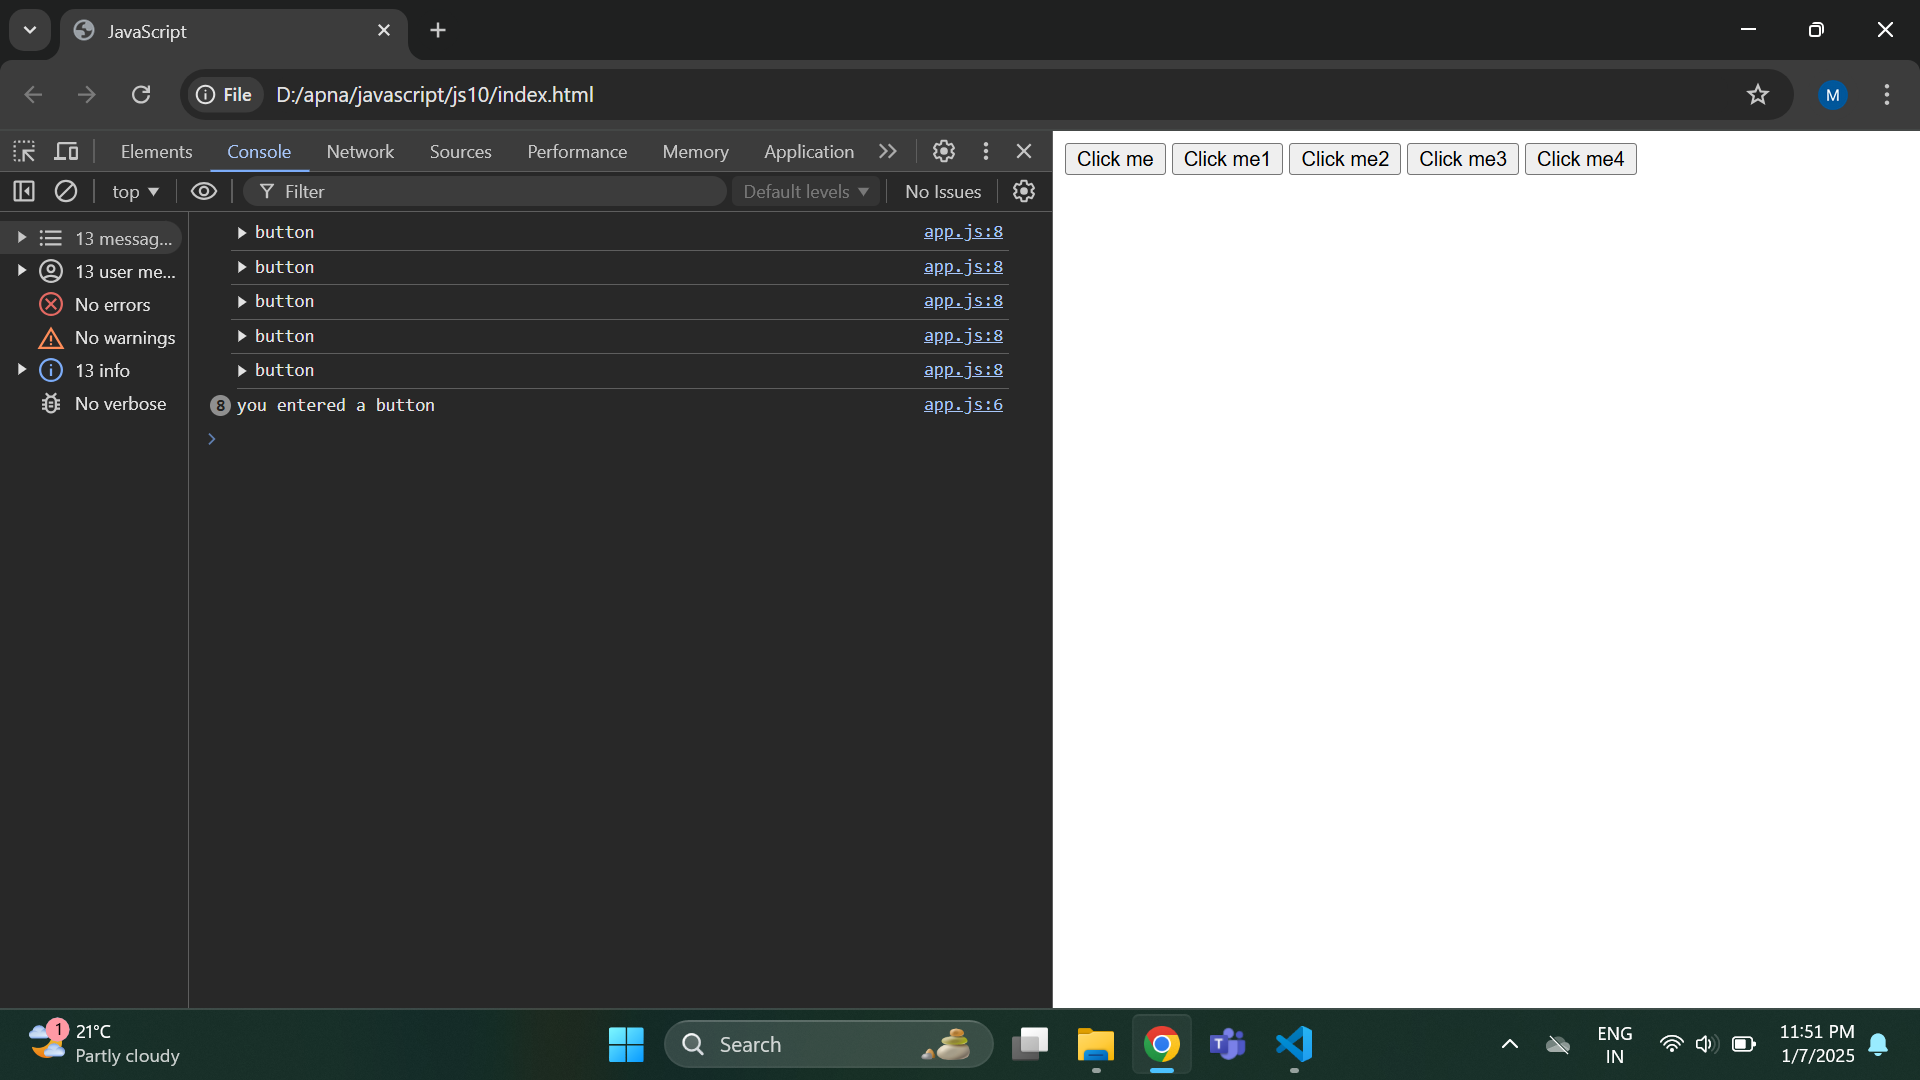
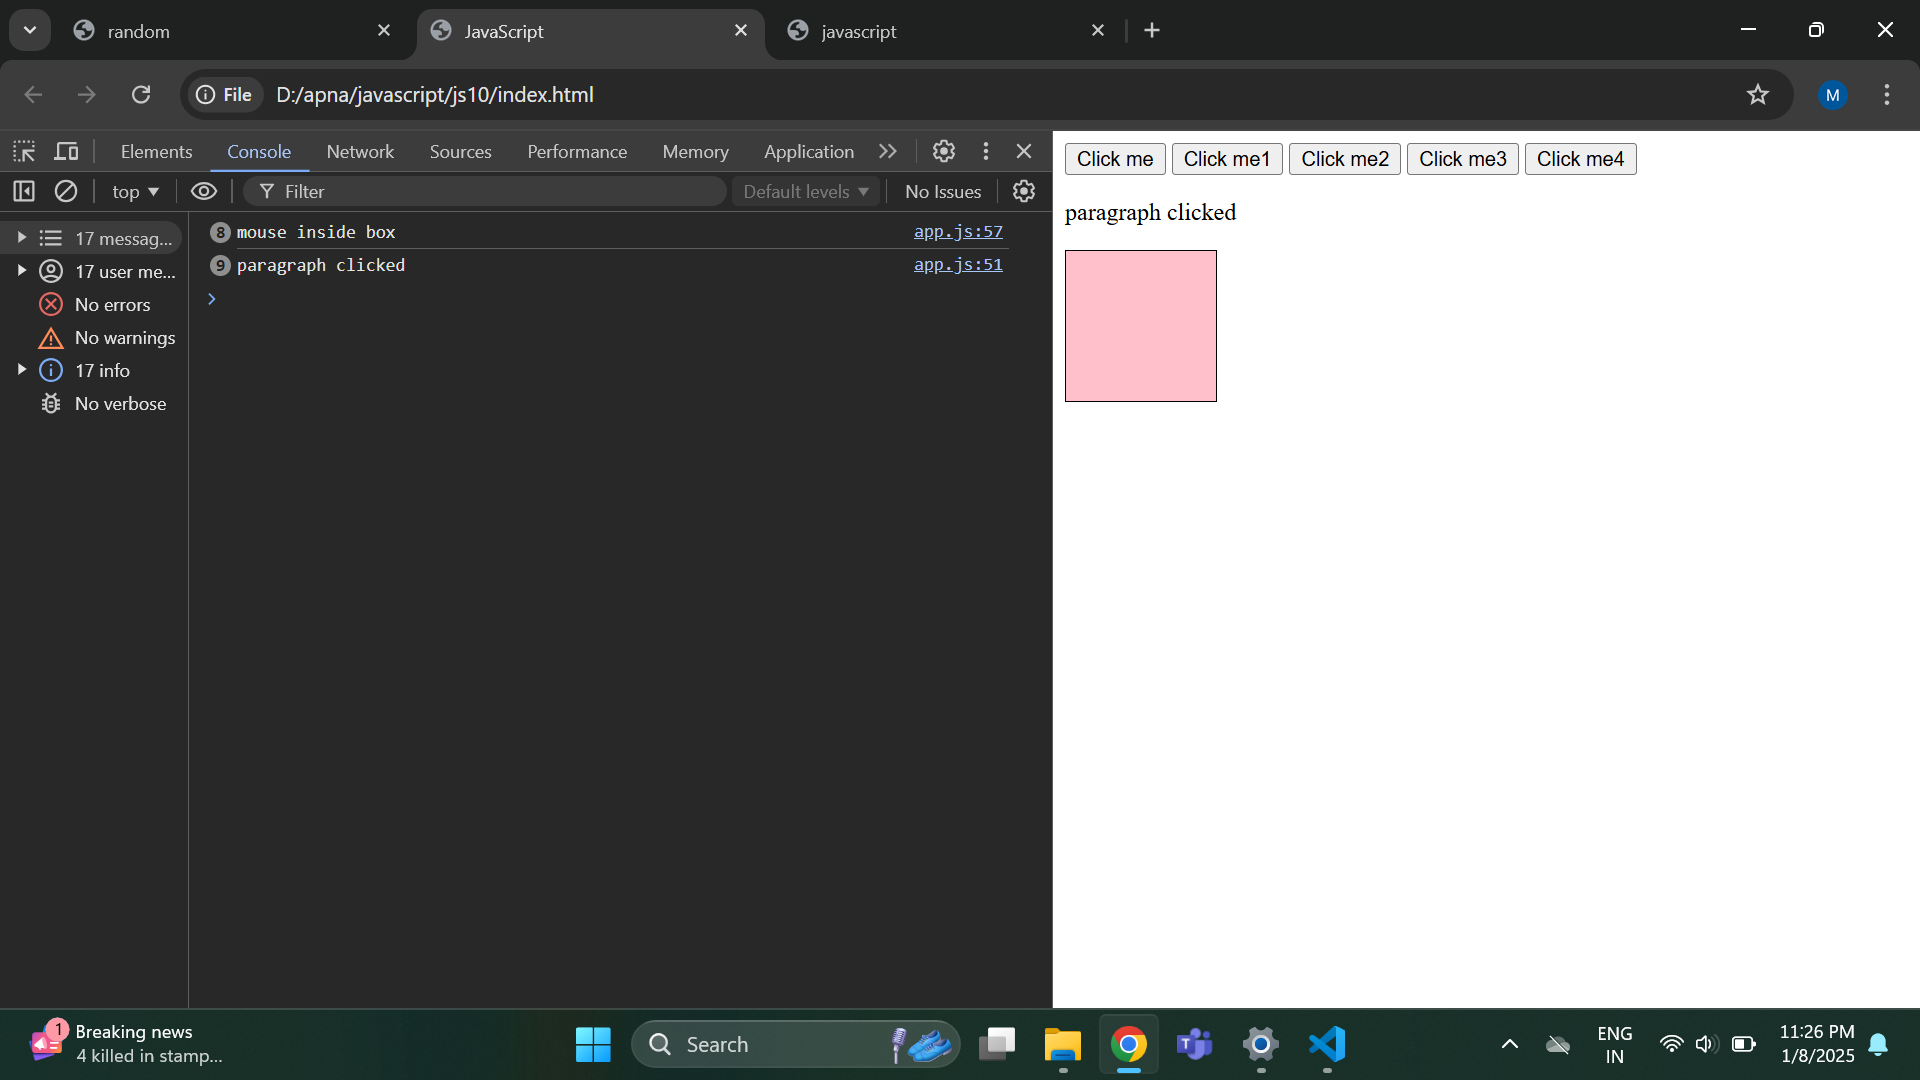
'javascript'

diff --git a/javascript/js1/index.html b/javascript/js1/index.html
@@ -3,23 +3,14 @@
 <head>
     <meta charset="UTF-8">
     <meta name="viewport" content="width=device-width, initial-scale=1.0">
-    <title>JavaScript</title>
+    <title>javascript</title>
     <link rel="stylesheet" href="style.css">
 </head>
 <body>
     
-    <button>Click me</button>
-    <button>Click me1</button>
-    <button>Click me2</button>
-    <button>Click me3</button>
-    <button>Click me4</button>
-
-
-    <p>paragraph clicked</p>
-    <div class="box"></div>
-
-
-    
+    <h1>get color</h1>
+    <button>click for color</button>
+    <div class="box">This is the visialization of box</div>
 
     <script src="app.js"></script>
 </body>

diff --git a/javascript/js10/generate.js b/javascript/js10/generate.js
@@ -1,0 +1,21 @@
+let btn = document.querySelector("button");
+
+btn.addEventListener("click", function() {
+    let h3 = document.querySelector("h3");
+    let randomColor = getRandomColor();
+    h3.innerText = randomColor;
+
+    let div = document.querySelector("div");
+    div.style.backgroundColor = randomColor;
+
+    console.log("color updated");
+});
+
+function getRandomColor () {
+    let red = Math.floor(Math.random() * 255);
+    let green = Math.floor(Math.random() * 255);
+    let blue = Math.floor(Math.random() * 255);
+
+    let color = `rgb(${red},${green},${blue})`;
+    return color;
+}

diff --git a/javascript/js1/app.js b/javascript/js1/app.js
@@ -1,0 +1,23 @@
+let btn = document.querySelector("button");
+
+btn.addEventListener("click",function() {
+    let h1 = document.querySelector("h1");
+    let randomcolor = getColor();
+    h1.innerText = randomcolor;
+
+    let div = document.querySelector("div");
+    div.style.backgroundColor = randomcolor;
+
+    console.log("color updated");
+})
+
+
+
+function getColor () {
+    let red = Math.floor(Math.random() * 255);
+let green = Math.floor(Math.random() * 255);
+let blue = Math.floor(Math.random() * 255);
+
+let color= `rgb(${red},${green},${blue})`;
+return color;
+}

diff --git a/javascript/js10/app.js b/javascript/js10/app.js
@@ -35,11 +35,24 @@ for(btn of btns) {
 
 }
 
-function sayHello () {
-   alert ("Hello");
-}
+// function sayHello () {
+//    alert ("Hello");
+// }
 
-function sayName () {
-    alert ("Nrupathunga University");
-}
+// function sayName () {
+//     alert ("Nrupathunga University");
+// }
 
+
+
+let p = document.querySelector("p");
+
+p.addEventListener("click", function() {
+    console.log("paragraph clicked")
+})
+
+let box = document.querySelector(".box");
+
+box.addEventListener("mouseenter",function() {
+    console.log("mouse inside box");
+})

diff --git a/javascript/js10/event.js b/javascript/js10/event.js
@@ -1,0 +1,19 @@
+let btn = document.querySelector("button");
+let  p = document.querySelector("p");
+let h1 = document.querySelector("h1");
+let  h3 = document.querySelector("h3");
+
+
+function changeColor () {
+    console.dir(this.innerText);
+    this.style.backgroundColor = "blue";
+}
+
+btn.addEventListener("click", changeColor);
+
+p.addEventListener("click", changeColor);
+
+h1.addEventListener("click", changeColor); 
+
+h3.addEventListener("click", changeColor);
+

diff --git a/javascript/js10/generate.html b/javascript/js10/generate.html
@@ -1,0 +1,21 @@
+<!DOCTYPE html>
+<html lang="en">
+<head>
+    <meta charset="UTF-8">
+    <meta name="viewport" content="width=device-width, initial-scale=1.0">
+    <title>random</title>
+    <link rel="stylesheet" href="generate.css">
+</head>
+<body>
+    
+
+    <h3>Generate a random color</h3>
+    <br>
+    <button>Generate color</button>
+    <br><br>
+    <div>This is new color</div>
+
+    <script src="generate.js"></script>
+</body>
+</html>
+

diff --git a/javascript/js10/event.html b/javascript/js10/event.html
@@ -1,0 +1,17 @@
+<!DOCTYPE html>
+<html lang="en">
+<head>
+    <meta charset="UTF-8">
+    <meta name="viewport" content="width=device-width, initial-scale=1.0">
+    <title> js </title>
+</head>
+<body>
+    
+    <h1>use of this in event listeners</h1>
+    <h3>lets demo it on elements</h3>
+    <p>This is sample paragraph.</p>
+    <button>click me</button>
+
+    <script src="event.js"></script>
+</body>
+</html>

diff --git a/javascript/js1/style.css b/javascript/js1/style.css
@@ -1,0 +1,12 @@
+body{
+    text-align: center;
+    
+}
+
+div{
+    height: 100px;
+    width: 300px;
+    border: 2px solid black;
+    margin: auto;
+    margin-top: 20px;
+}

diff --git a/javascript/js10/generate.css b/javascript/js10/generate.css
@@ -1,0 +1,10 @@
+body{
+    text-align: center;
+}
+
+div{
+    margin: auto;
+    height: 100px;
+    width: 400px;
+    border: 1px solid black;
+}

diff --git a/javascript/js10/style.css b/javascript/js10/style.css
@@ -1,0 +1,6 @@
+.box{
+    height: 100px;
+    width: 100px;
+    background-color: pink;
+    border: 1px solid black;
+}
